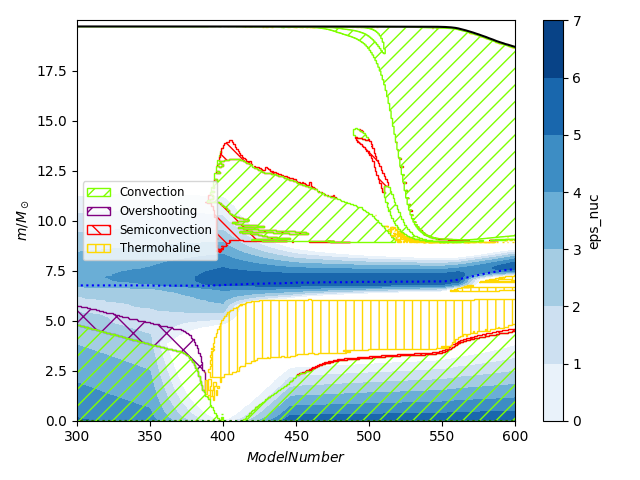
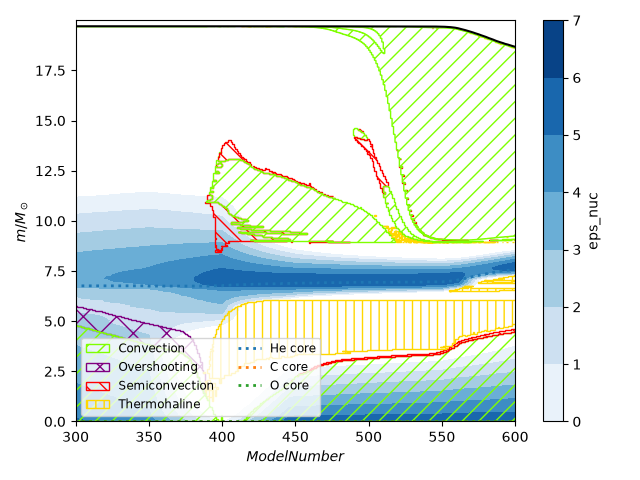
Add core mass legend (#22)

diff --git a/mkipp2/mkipp.py b/mkipp2/mkipp.py
@@ -8,7 +8,7 @@ from collections import namedtuple
 
 import matplotlib.pyplot as plt
 import numpy as np
-from matplotlib.patches import PathPatch
+from matplotlib.patches import Patch, PathPatch
 
 import mkipp2.kipp_data as kipp
 import mkipp2.mesa_data as md
@@ -253,6 +253,7 @@ def kipp_plot(kipp_args, *,
               level_style=None,
               num_levels=8,
               show_mixing_legend=True,
+              show_core_mass_legend=True,
               show_plot=False,
               show_conv=True,
               show_therm=True,
@@ -274,8 +275,8 @@ def kipp_plot(kipp_args, *,
         Colormap for the filled contours. Defaults to ``'Blues'``
         for most data.  For diverging fields, like ``'net_nuclear_energy'``,
         the default is ``RdBu_r``.
-    core_masses : sequence of {'He', 'C', 'O'}, optional
-        Core masses to overlay when ``yaxis='mass'``. Defaults to all three;
+    core_masses : sequence of {'He', 'C', 'O', 'CO', 'ONe', 'Fe'}, optional
+        Core masses to overlay when ``yaxis='mass'``. Defaults to He, C, O;
         an empty sequence suppresses them.
     decorate_plot : bool, optional
         Add axis labels and a colorbar.  Default is True.
@@ -295,7 +296,9 @@ def kipp_plot(kipp_args, *,
         Display convection, thermohaline mixing, semiconvection, and
         overshooting boundaries, respectively. Each defaults to True.
     show_mixing_legend : bool, optional
-        Add a legend showing the mixing types.  Default is True.
+        Include mixing types in the first legend column. Default is True.
+    show_core_mass_legend : bool, optional
+        Include core-mass lines in the second legend column. Default is True.
     show_plot : bool, optional
         Call ``pyplot.show()`` after plotting. Default is False.
     show_rot : bool, optional
@@ -319,9 +322,12 @@ def kipp_plot(kipp_args, *,
     -----
     Mixing regions are drawn as unfilled, hatched patches over the profile
     contours. A white fill covers contours above the stellar surface, and
-    selected core masses are overlaid for a mass axis. Axis labels, a
-    colorbar, and a mixing legend are added only when ``decorate_plot`` is
-    True. Each displayed mixing type appears once in the legend.
+    selected core masses are overlaid for a mass axis. Axis labels and a
+    colorbar are added only when ``decorate_plot`` is True. Mixing and
+    core-mass legend entries are controlled independently by their respective
+    ``show_*_legend`` options. Each displayed type appears once in a shared
+    two-column legend, with mixing types first and core masses second.
+    When only one group is shown, the legend uses a single column.
 
     Display and file output use pyplot. In particular,
     ``save_file=True`` saves the current pyplot figure, which need not
@@ -449,6 +455,7 @@ def kipp_plot(kipp_args, *,
     axis.plot(mixing_zones.x_coords[:i], mixing_zones.y_coords[:i], "k-")
 
     # add core masses
+    core_mass_handles = {}
     if kipp_args.yaxis == "mass":
         field_name = ""
         for core_mass in core_masses:
@@ -471,14 +478,29 @@ def kipp_plot(kipp_args, *,
                 field_name = "fe_core_mass"
                 color = "C3:"
             for history in mixing_zones.histories:
-                axis.plot(kipp_args.function_on_xaxis(history.get(kipp_args.xaxis) / xaxis_divide),
-                          history.get(field_name), color)
+                core_line, = axis.plot(
+                    kipp_args.function_on_xaxis(history.get(kipp_args.xaxis) / xaxis_divide),
+                    history.get(field_name), color, lw=2, label=f"{core_mass} core")
+                core_mass_handles.setdefault(core_mass, core_line)
 
-    if show_mixing_legend:
-        if mixing_handles:
-            axis.legend(handles=[mixing_handles[key]
-                                 for key in sorted(mixing_handles)],
-                        loc="best", fontsize="small")
+    mixing_entries = ([mixing_handles[key] for key in sorted(mixing_handles)]
+                      if show_mixing_legend else [])
+    core_entries = list(core_mass_handles.values()) if show_core_mass_legend else []
+    rows = max(len(mixing_entries), len(core_entries))
+    if mixing_entries and core_entries:
+        # Matplotlib fills columns in order; pad to keep each group in its column.
+        handles = []
+        labels = []
+        for entries in (mixing_entries, core_entries):
+            handles.extend(entries)
+            labels.extend(entry.get_label() for entry in entries)
+            handles.extend(Patch(visible=False) for _ in range(rows - len(entries)))
+            labels.extend([""] * (rows - len(entries)))
+        axis.legend(handles=handles, labels=labels, ncol=2,
+                    loc="best", fontsize="small")
+    elif rows:
+        axis.legend(handles=mixing_entries or core_entries,
+                    loc="best", fontsize="small")
 
     if decorate_plot:
 

diff --git a/example/example.py b/example/example.py
@@ -137,8 +137,8 @@ fig.tight_layout()
 fig.savefig("Kippenhahn6.png")
 
 # create a multi-panel plot
-fig = plt.figure(figsize=(8, 5), layout="constrained")
-spec = fig.add_gridspec(ncols=4, nrows=1, wspace=0.05, width_ratios=[5, 5, 5, 1])
+fig = plt.figure(figsize=(9, 5), layout="constrained")
+spec = fig.add_gridspec(ncols=4, nrows=1, wspace=0.05, width_ratios=[5, 4, 4, 0.75])
 ax1 = fig.add_subplot(spec[0, 0])
 ax2 = fig.add_subplot(spec[0, 1])
 ax3 = fig.add_subplot(spec[0, 2])
@@ -146,8 +146,10 @@ ax4 = fig.add_subplot(spec[0, 3])
 
 kipp_args = mkipp2.KippArgs(xaxis="star_age")
 mkipp2.kipp_plot(kipp_args, axis=ax1, save_file=False, decorate_plot=False)
-mkipp2.kipp_plot(kipp_args, axis=ax2, save_file=False, decorate_plot=False, show_mixing_legend=False)
-kipp_plot = mkipp2.kipp_plot(kipp_args, axis=ax3, save_file=False, decorate_plot=False, show_mixing_legend=False)
+mkipp2.kipp_plot(kipp_args, axis=ax2, save_file=False, decorate_plot=False,
+                 show_mixing_legend=False, show_core_mass_legend=False)
+kipp_plot = mkipp2.kipp_plot(kipp_args, axis=ax3, save_file=False, decorate_plot=False,
+                             show_mixing_legend=False, show_core_mass_legend=False)
 cbar = fig.colorbar(kipp_plot.contour_plot, cax=ax4)
 #cbar.ax.set_yticklabels(['0', '','2','','4','','6','','8',''])
 cbar.set_label(r"$\log_{10}|\epsilon_{\rm nuc}|$")

diff --git a/README.md b/README.md
@@ -230,8 +230,8 @@ single `KippArgs` object and calling `kipp_plot` on various subaxes
 import mkipp2
 import matplotlib.pyplot as plt
 
-fig = plt.figure(figsize=(8, 5), layout="constrained")
-spec = fig.add_gridspec(ncols=4, nrows=1, wspace=0.05, width_ratios=[5, 5, 5, 1])
+fig = plt.figure(figsize=(9, 5), layout="constrained")
+spec = fig.add_gridspec(ncols=4, nrows=1, wspace=0.05, width_ratios=[5, 4, 4, 1])
 ax1 = fig.add_subplot(spec[0, 0])
 ax2 = fig.add_subplot(spec[0, 1])
 ax3 = fig.add_subplot(spec[0, 2])
@@ -241,9 +241,11 @@ kipp_args = mkipp2.KippArgs(xaxis="star_age")
 mkipp2.kipp_plot(kipp_args, axis=ax1,
                  save_file=False, decorate_plot=False)
 mkipp2.kipp_plot(kipp_args, axis=ax2,
-                 save_file=False, decorate_plot=False, show_mixing_legend=False)
+                 save_file=False, decorate_plot=False,
+                 show_mixing_legend=False, show_core_mass_legend=False)
 kipp_plot = mkipp2.kipp_plot(kipp_args, axis=ax3,
-                             save_file=False, decorate_plot=False, show_mixing_legend=False)
+                             save_file=False, decorate_plot=False,
+                             show_mixing_legend=False, show_core_mass_legend=False)
 cbar = fig.colorbar(kipp_plot.contour_plot, cax=ax4)
 cbar.set_label(r"$\log_{10}|\epsilon_{\rm nuc}|$")
 
